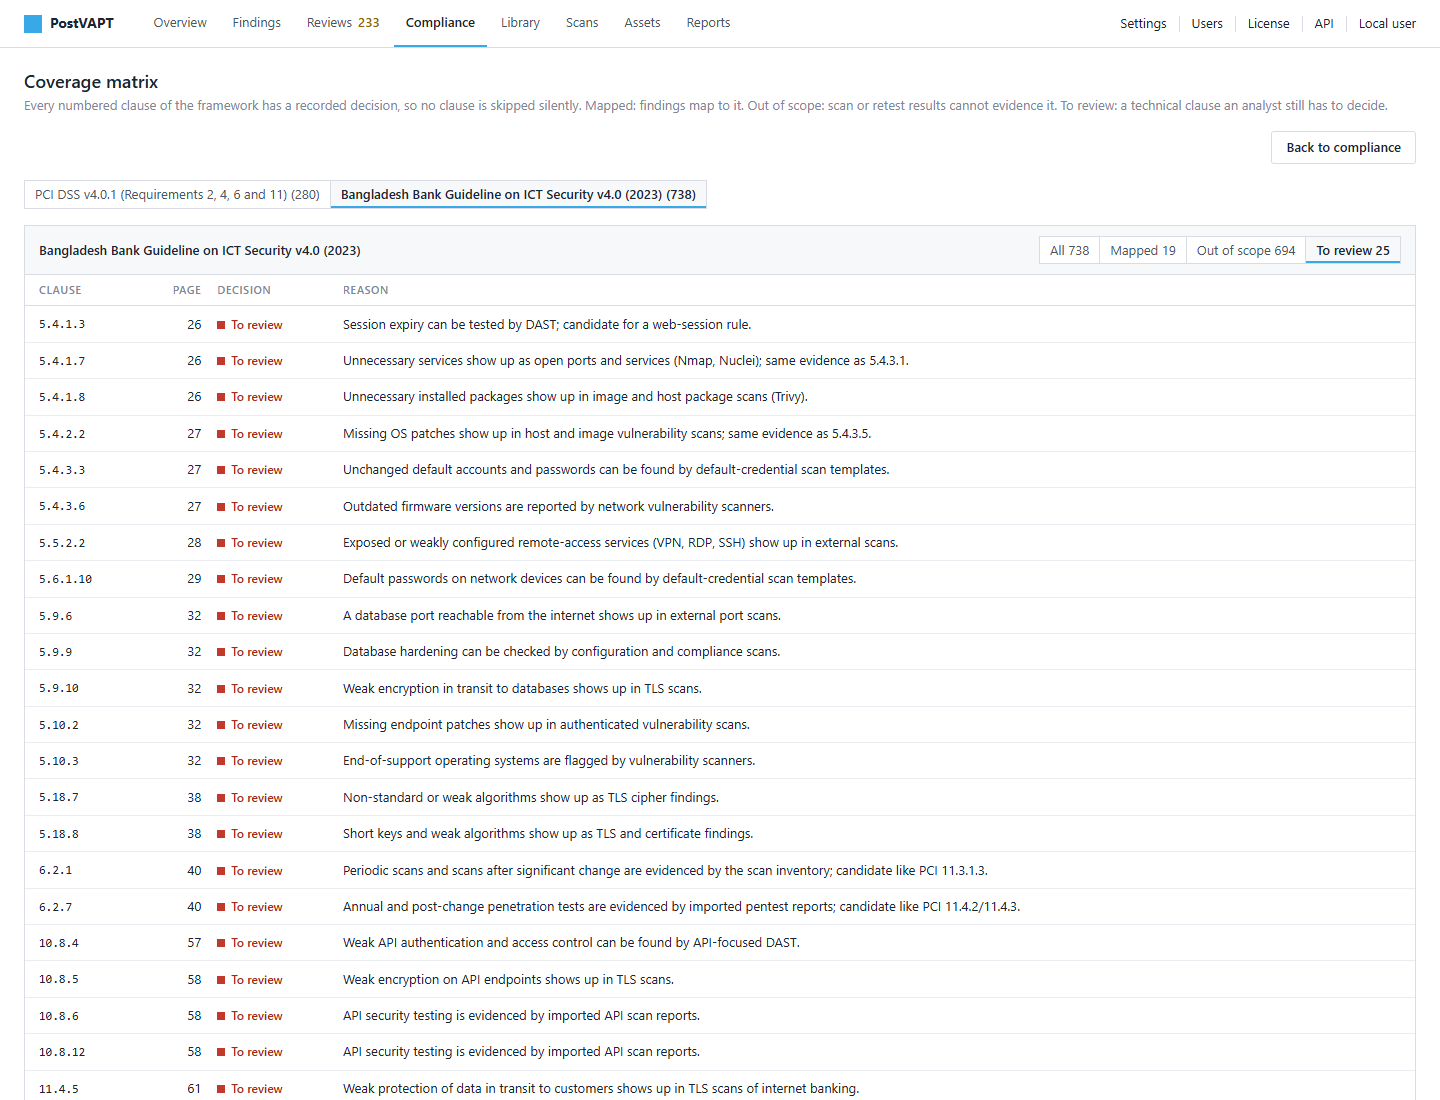
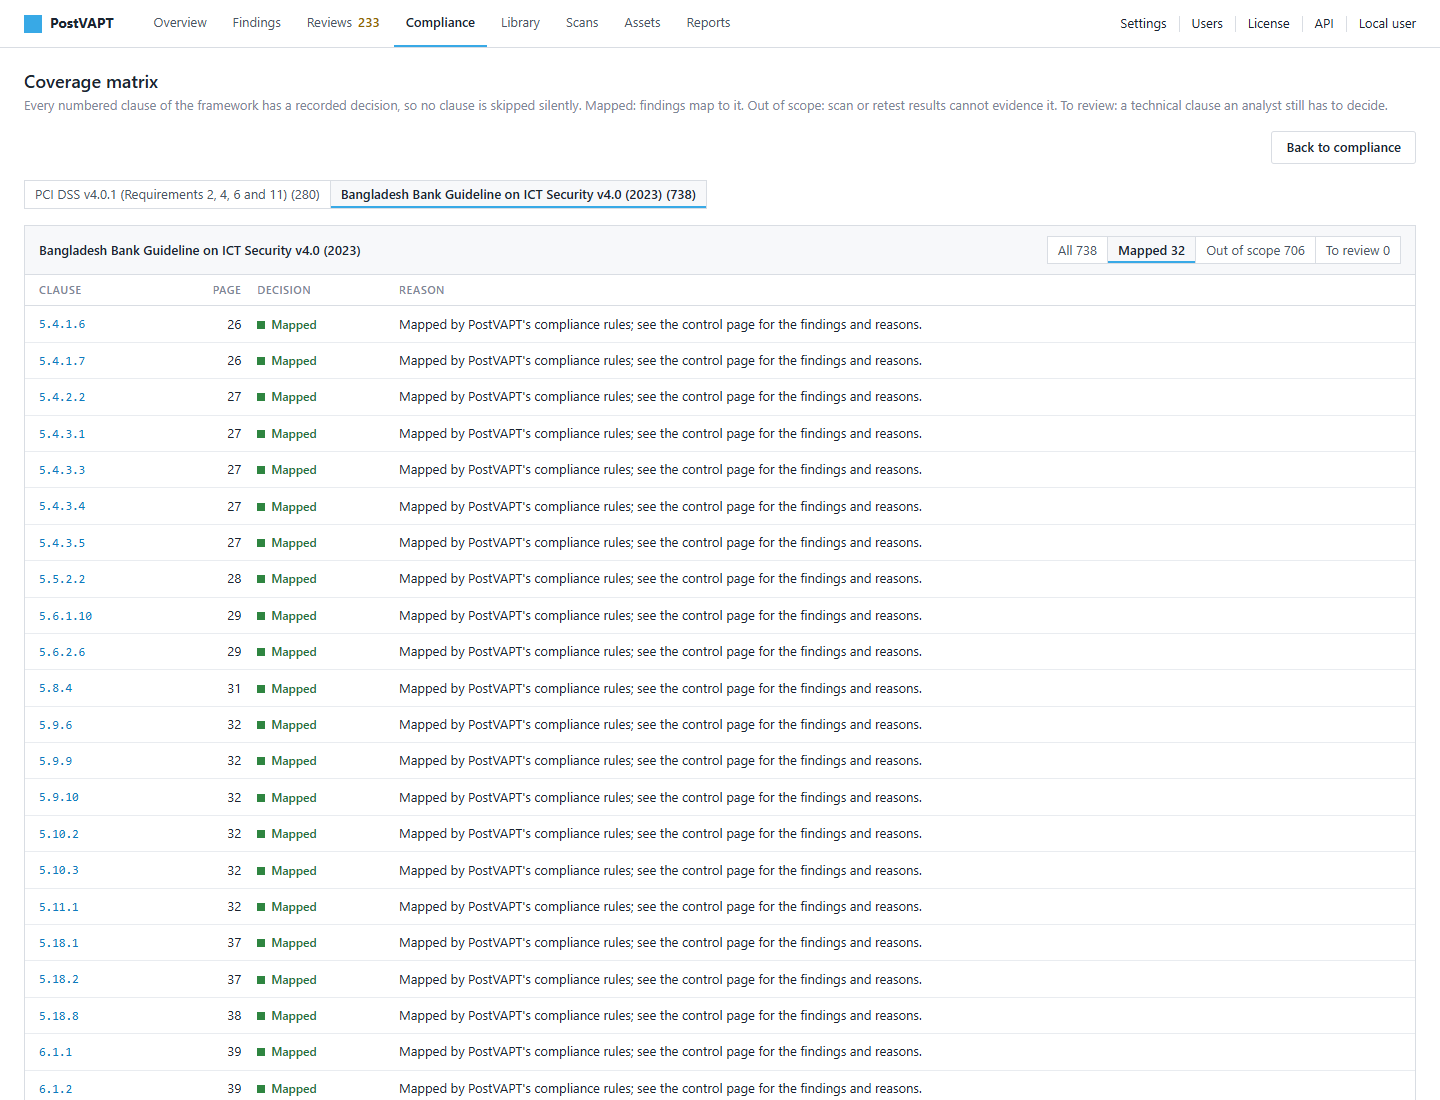
Docs: completed coverage matrix and 0.1.4 release files

diff --git a/USER_MANUAL.md b/USER_MANUAL.md
@@ -131,10 +131,10 @@ of text that starts with `PVL1-`. While you wait, you can already try the demo
 
 1. Open the **[Releases page](https://github.com/mstnisa/postvapt/releases/latest)**.
 2. Under **Assets**, click the file for your computer:
-   - Windows: `postvapt-0.1.3-windows-x86_64.zip`
-   - Linux: `postvapt-0.1.3-linux-x86_64.zip` (Ubuntu 24.04 or newer, Debian 13,
+   - Windows: `postvapt-0.1.4-windows-x86_64.zip`
+   - Linux: `postvapt-0.1.4-linux-x86_64.zip` (Ubuntu 24.04 or newer, Debian 13,
      Fedora 39 or newer; on older Linux such as Ubuntu 22.04, use Docker)
-   - Docker: `postvapt-0.1.3-docker.tar.gz`
+   - Docker: `postvapt-0.1.4-docker.tar.gz`
 
 ### Step 3: Install and start
 
@@ -155,7 +155,7 @@ Your data is saved automatically in `%APPDATA%\PostVAPT`.
 #### On Linux
 
 ```bash
-unzip postvapt-0.1.3-linux-x86_64.zip -d ~/postvapt
+unzip postvapt-0.1.4-linux-x86_64.zip -d ~/postvapt
 cd ~/postvapt/postvapt
 ./postvapt-bin serve --open
 ```
@@ -163,10 +163,10 @@ cd ~/postvapt/postvapt
 #### With Docker
 
 ```bash
-docker load -i postvapt-0.1.3-docker.tar.gz
-docker run --rm -v postvapt-data:/data postvapt:0.1.3 license activate <your-key>
-docker run --rm -it -v postvapt-data:/data postvapt:0.1.3 user add admin --role admin
-docker run -d --name postvapt -p 8000:8000 -v postvapt-data:/data postvapt:0.1.3
+docker load -i postvapt-0.1.4-docker.tar.gz
+docker run --rm -v postvapt-data:/data postvapt:0.1.4 license activate <your-key>
+docker run --rm -it -v postvapt-data:/data postvapt:0.1.4 user add admin --role admin
+docker run -d --name postvapt -p 8000:8000 -v postvapt-data:/data postvapt:0.1.4
 ```
 
 Then open `http://<server-address>:8000` and sign in as `admin`.
@@ -293,12 +293,12 @@ results can prove. To show that nothing was forgotten, the coverage matrix lists
 |---|---|
 | **Mapped** | Findings are linked to this clause; it appears on the Compliance page. |
 | **Out of scope** | Scan results cannot prove this clause (for example a written policy or staff training). The reason says what evidence it needs instead. |
-| **To review** | A technical clause that scans might prove. An analyst still has to decide. |
 
 Open it with **View matrix** next to each framework on the Compliance page, and
 use the buttons to show only one decision. PCI DSS v4.0.1 has 280 clauses
-(18 mapped, 257 out of scope, 5 to review); the Bangladesh Bank guideline has
-738 (19 mapped, 694 out of scope, 25 to review). The list was checked against
+(19 mapped, 261 out of scope); the Bangladesh Bank guideline has 738
+(32 mapped, 706 out of scope). Every clause has a decision; none is left
+waiting. The list was checked against
 the official PDFs, so no clause number is missing. Only clause numbers, pages
 and PostVAPT's own reasons are shown, never the licensed text.
 

diff --git a/README.md b/README.md
@@ -51,7 +51,7 @@ every task explained step by step, with pictures.
   Bangladesh Bank ICT Security Guideline v4.0 controls, with clause and page.
 - **No clause left unchecked.** A coverage matrix records a decision for every
   clause of both documents (280 in PCI DSS, 738 in the Bangladesh Bank guideline):
-  mapped, out of scope with the reason, or still to review.
+  mapped, or out of scope with the reason. None is left undecided.
 - **People stay in control.** Lowering a scanner's severity needs an analyst's
   approval, and every action is recorded.
 - **Private by design.** Runs on-premise, works offline, and your scan data is
@@ -76,9 +76,9 @@ More screens in the [User Manual](USER_MANUAL.md#5-a-tour-of-the-screens).
 
 | Platform | File |
 |---|---|
-| Windows 10/11 (64-bit) | `postvapt-0.1.3-windows-x86_64.zip` |
-| Linux (64-bit: Ubuntu 24.04+, Debian 13+, Fedora 39+; older Linux: use Docker) | `postvapt-0.1.3-linux-x86_64.zip` |
-| Docker (any Linux server) | `postvapt-0.1.3-docker.tar.gz` |
+| Windows 10/11 (64-bit) | `postvapt-0.1.4-windows-x86_64.zip` |
+| Linux (64-bit: Ubuntu 24.04+, Debian 13+, Fedora 39+; older Linux: use Docker) | `postvapt-0.1.4-linux-x86_64.zip` |
+| Docker (any Linux server) | `postvapt-0.1.4-docker.tar.gz` |
 
 Installation for each platform: [User Manual, section 4](USER_MANUAL.md#4-install-postvapt-in-5-minutes).
 
